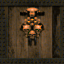
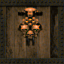
graphics update

diff --git a/globalSettings.js b/globalSettings.js
@@ -34,7 +34,7 @@ Global.resList = [
     {
         type: "texture",
         name: "DOOR1O",
-        path : "res/DOR2O.bmp"
+        path : "res/DOR2O.png"
     },
     {
         type: "texture",
